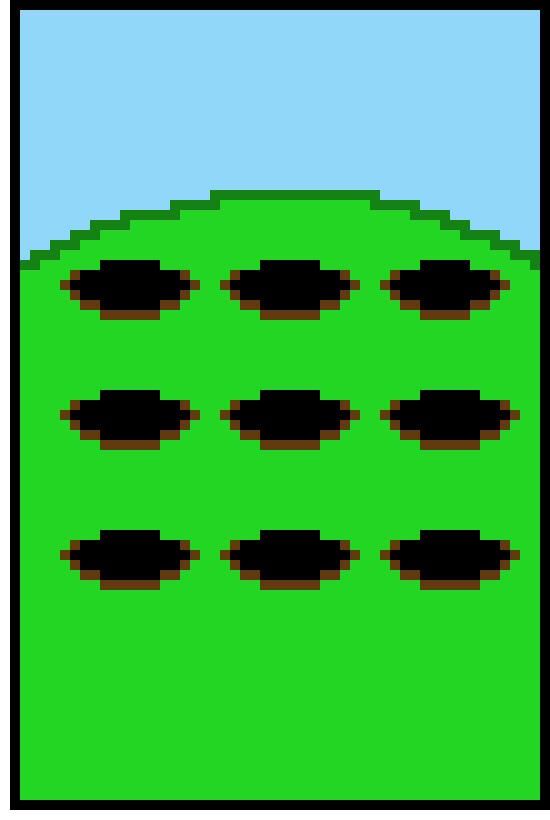
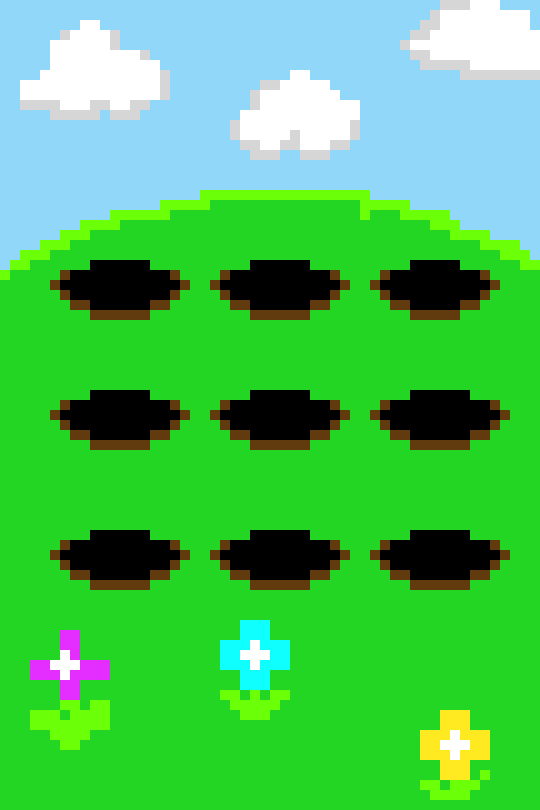
New background, centered background in game scene

diff --git a/src/scenes/Game.js b/src/scenes/Game.js
@@ -34,7 +34,7 @@ export default new Phaser.Class({
     //   }
     // })
 
-    this.add.image(245, 410, "background"); //note: All Phaser3 Game Obj are positioned based on their center by default, and can be changed to have the drawing position set to the top-left by appending .setOrigin(0,0) to this line
+    this.add.image(275, 410, "background"); //note: All Phaser3 Game Obj are positioned based on their center by default, and can be changed to have the drawing position set to the top-left by appending .setOrigin(0,0) to this line
 
     const stars = this.physics.add.group({
       key: "star",

diff --git a/src/index.js b/src/index.js
@@ -5,7 +5,7 @@ import WinScreen from "./scenes/WinScreen";
 
 var config = {
   type: Phaser.AUTO,
-  width: 540,
+  width: 550,
   height: 820,
   physics: {
     default: "arcade",
